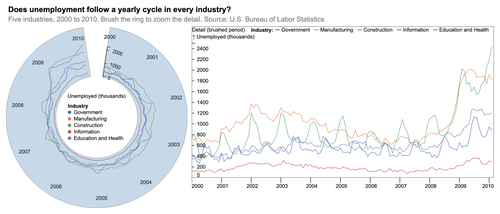
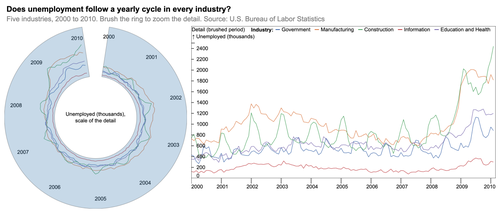
fix(examples): circular unemployment ring without the radial tick next to the year 2000
The ring uses the detail's y scale, as its center title says; its color legend is the detail's, which would otherwise cover a year label. Confirms Brehmer #10 (radial chronological unified).

diff --git a/editor/example/spec/temporal-data_unemployment-circular-linear.ts b/editor/example/spec/temporal-data_unemployment-circular-linear.ts
@@ -39,7 +39,8 @@ const y = {
 
 export const EX_SPEC_TEMPORAL_UNEMPLOYMENT_CIRCULAR_LINEAR: GoslingSpec = {
     title: 'Does unemployment follow a yearly cycle in every industry?',
-    subtitle: 'Five industries, 2000 to 2010. Brush the ring to zoom the detail. Source: U.S. Bureau of Labor Statistics',
+    subtitle:
+        'Five industries, 2000 to 2010. Brush the ring to zoom the detail. Source: U.S. Bureau of Labor Statistics',
     arrangement: 'horizontal',
     views: [
         {
@@ -53,8 +54,11 @@ export const EX_SPEC_TEMPORAL_UNEMPLOYMENT_CIRCULAR_LINEAR: GoslingSpec = {
                     dataTransform,
                     mark: 'line',
                     x: { field: 'date', type: 'temporal', domain: xDomain },
-                    y,
-                    color,
+                    // no radial axis: its tick "2000" (thousands) stood next to the year 2000 at 12 o'clock;
+                    // the ring uses the y scale of the detail view, as its center title says
+                    y: { ...y, axis: 'none', title: 'Unemployed (thousands), scale of the detail' },
+                    // the legend is in the detail's header (same colors); on the ring it would cover a year label
+                    color: { ...color, legend: false },
                     tracks: [
                         {},
                         {
@@ -75,7 +79,13 @@ export const EX_SPEC_TEMPORAL_UNEMPLOYMENT_CIRCULAR_LINEAR: GoslingSpec = {
                     data,
                     dataTransform,
                     mark: 'line',
-                    x: { field: 'date', type: 'temporal', axis: 'bottom', linkingId: 'unemployment-brush', domain: xDomain },
+                    x: {
+                        field: 'date',
+                        type: 'temporal',
+                        axis: 'bottom',
+                        linkingId: 'unemployment-brush',
+                        domain: xDomain
+                    },
                     y,
                     color,
                     width: 700,
